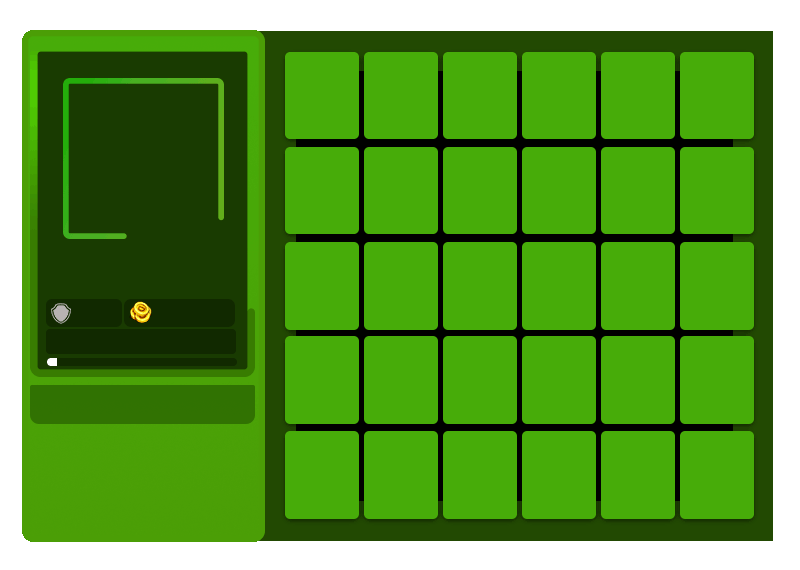
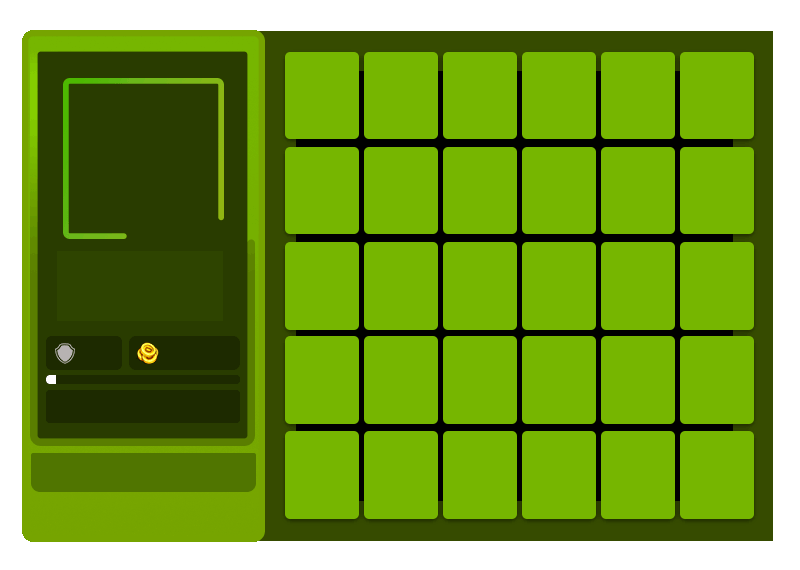
++

diff --git a/Dynastio.Bot/Services/GraphicService.cs b/Dynastio.Bot/Services/GraphicService.cs
@@ -155,17 +155,17 @@ namespace Dynastio.Bot
             }
 
             var font = new Font(fontFamily, 18, FontStyle.Regular);
-            image.Mutate(x => x.DrawText("User: " + user.Username.TryRemove(16), font, Color.White, new Point(60, 245)));
-            image.Mutate(x => x.DrawText("Account: " + account.Reminder.TryRemove(16), font, Color.White, new Point(60, 265)));
+            image.Mutate(x => x.DrawText("User:   @" + user.Username.TryRemove(16), font, Color.White, new Point(70, 260)));
+            image.Mutate(x => x.DrawText("Account:   " + account.Reminder.TryRemove(16), font, Color.White, new Point(70, 280)));
 
-            image.Mutate(x => x.DrawText(profile.Details.Level.Metric().ToString(), font, Color.White, new Point(80, 302)));
+            image.Mutate(x => x.DrawText(profile.Details.Level.Metric().ToString(), font, Color.White, new Point(83, 342)));
 
-            image.Mutate(x => x.DrawText(profile.Coins.Metric().ToString(), font, Color.White, new Point(160, 302)));
+            image.Mutate(x => x.DrawText(profile.Coins.Metric().ToString(), font, Color.White, new Point(170, 342)));
 
-            image.Mutate(x => x.DrawText(profile.LastActiveAt.ToRelative() + " At " + profile.LatestServer, new Font(fontFamily, 14, FontStyle.Regular), Color.White, new Point(39, 393)));
+            image.Mutate(x => x.DrawText(profile.LastActiveAt.ToRelative() + " At " + profile.LatestServer, new Font(fontFamily, 14, FontStyle.Regular), Color.White, new Point(50, 462)));
 
-            var ExperienceLine = new Pen(brush: Brushes.Solid(Color.White), 8);
-            image.Mutate(x => x.DrawLines(ExperienceLine, new Point(49, 361), new Point((int)(profile.GetExperience(180) + 49), 361)));
+            var ExperienceLine = new Pen(brush: Brushes.Solid(Color.White), 9);
+            image.Mutate(x => x.DrawLines(ExperienceLine, new Point(51, 379), new Point((int)(profile.GetExperience(180) + 51), 379)));
 
 
             for (int wIndex = 0; wIndex < profile.Badges.Count; wIndex++)
@@ -175,8 +175,8 @@ namespace Dynastio.Bot
 
                 using (Image itemImg = Image.Load(path: itemImgPath))
                 {
-                    itemImg.Mutate(wIndex => wIndex.Resize(19, 19));
-                    var point = new Point((int)(49 + (wIndex * 21)), 332);
+                    itemImg.Mutate(wIndex => wIndex.Resize(25, 25));
+                    var point = new Point((int)(49 + (wIndex * 26)), 394);
                     image.Mutate(x => x.DrawImage(itemImg, point, 1f));
                 }
             }

diff --git a/Dynastio.Bot/Interactions/commands/rank.cs b/Dynastio.Bot/Interactions/commands/rank.cs
@@ -79,8 +79,8 @@ namespace Dynastio.Bot.Interactions.Modules.@public
             var content = leaderboard.ToStringTable<User>(new string[] { "Index", "User", "Level", "Xp" },
                 a => leaderboard.IndexOf(a).ToString(),
                 a => ". " + a.Id.ToUserMention(),
-                a => "` --->** `" + a.activiy_level.ToString().PadLeft(5),
-                a => "` **---> `" + a.activiy_score.Metric()).PadLeft(5);
+                a => " --->** " + a.activiy_level.ToString().PadLeft(5),
+                a => " **---> " + a.activiy_score.Metric()).PadLeft(5);
 
 
             var message = await FollowupAsync(userMention, embed:
